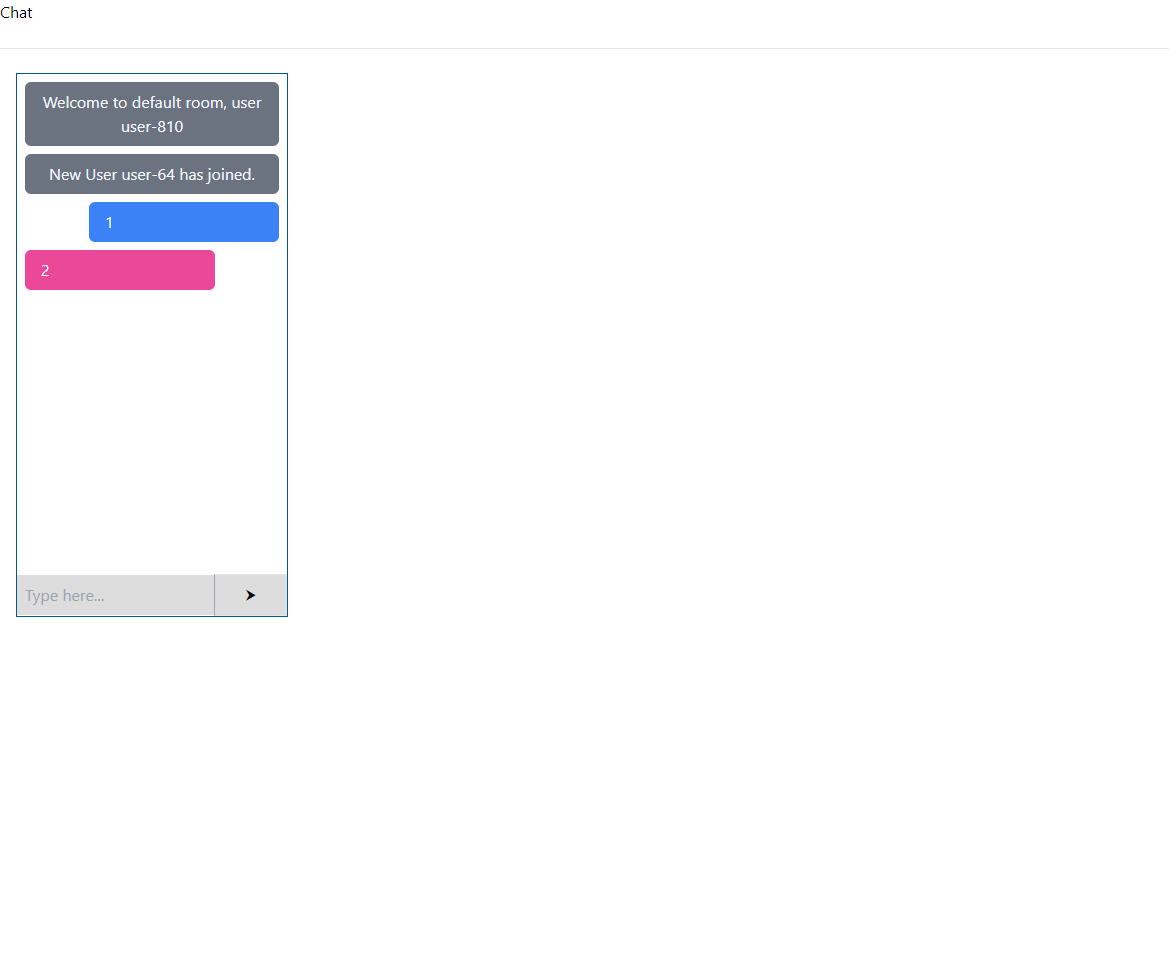
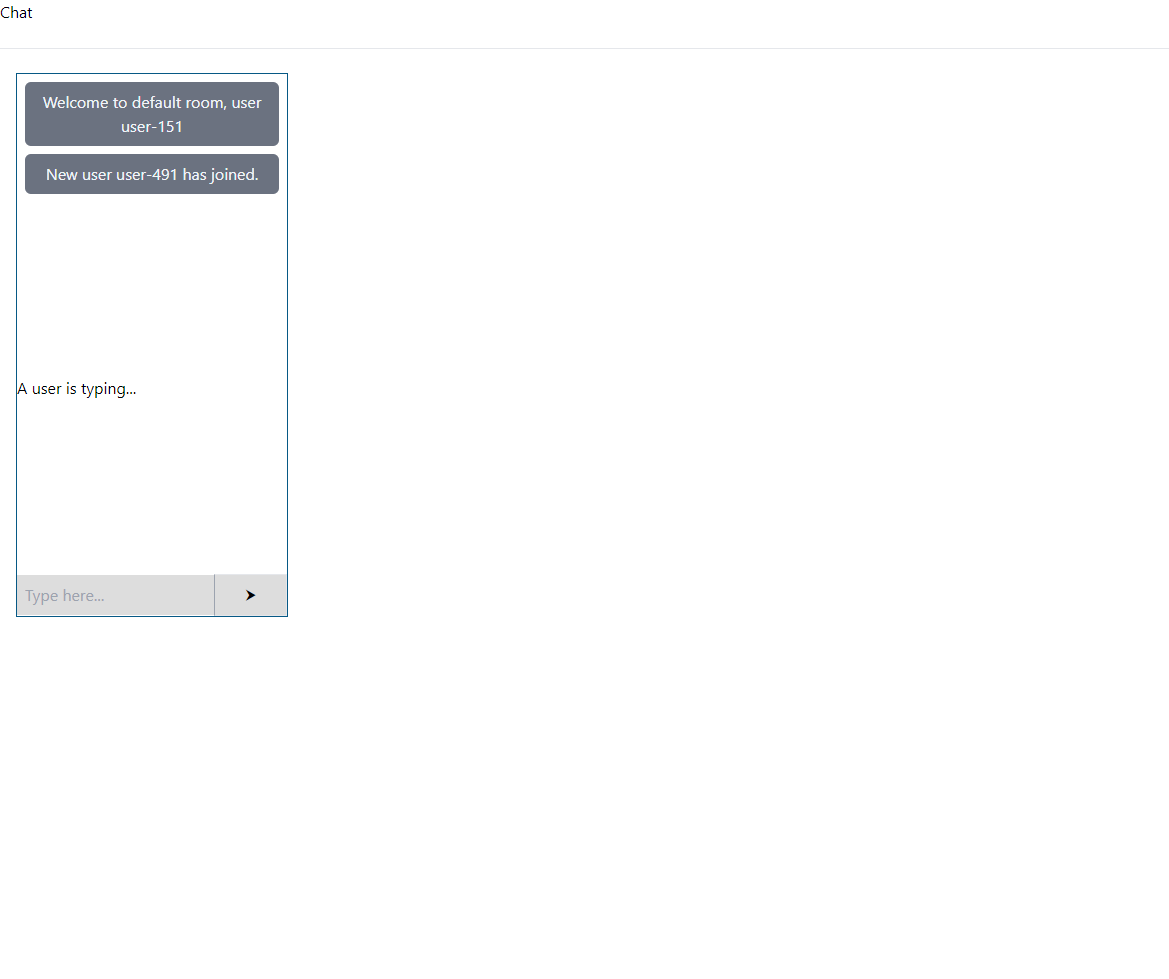
feat: created and connected 'user typing' event

Changed region(s): [[0.0, 0.1226, 0.2464, 0.3064]]

diff --git a/client/src/pages/Chat/Chat.tsx b/client/src/pages/Chat/Chat.tsx
@@ -3,7 +3,7 @@ import { FC, useEffect, useRef, useState } from 'react';
 import InputBtn from '../../components/InputBtn/InputBtn';
 import Messages from '../../components/Messages/Messages';
 import { uuid } from '../../helpers/misc';
-import { ESocketEventsDict, IClientMessageData, TFrom } from '../../types/global';
+import { TStateCount, TFrom, ESocketEventsDict, IClientMessageData } from '../../types/global';
 import './Chat.scss';
 
 interface IChatProps {
@@ -29,19 +29,32 @@ const Chat: FC<IChatProps> = (props) => {
     }
   ];
 
+  const [ isConnected, setIsConnected ] = useState(false);
   const [ messageList, setMessageList ] = useState<IClientMessageData[]>([]);
   const [ onNewMessage, setOnNewMessage ] = useState(0);
+  const [ onTyping, setOnTyping ] = useState<TStateCount>(0);
+  const [ isTyping, setIsTyping ] = useState(true);
+  const [ isTypingText, setIsTypingText ] = useState(false);
+  const [ lastTypingTime, setLastTypingTime ] = useState(new Date().getTime());
+  const typingTime = 400; // COMMT: in ms
   const name = `user-${uuid(3)}`;
   const room = 'default';
   const users = [];
+  const [tempCount, setTempCount] = useState(0);
 
-  // COMMT: Join Room
+
+  // COMMT: Socket event - Join Room
   useEffect(() => {
     props.socket.emit(
       ESocketEventsDict['joinRoom'],
       {name, room},
-      (err: string|null) => {
-        if (err) console.error('Error: ',err)
+      (type: 'name'|'error', callbackMessage: string) => {
+        if (type === 'name' && callbackMessage === name) {
+          // console.log('### CONN ###', name)
+          // setIsTyping(true);
+          setIsConnected(true);
+        };
+        if (type === 'error') console.error('Error: ', callbackMessage);
       }
     );
 
@@ -53,6 +66,69 @@ const Chat: FC<IChatProps> = (props) => {
     };
 
   }, []);
+
+  // COMMT: Toggle isTyping when this client types
+  // useEffect(() => {
+  //   if (onTyping >=1) {
+  //     setIsTyping(true);
+  //   };
+  // }, [onTyping]);
+
+  // COMMT: Socket Event - send - typing
+  useEffect(() => {
+    console.log('#### Changes ####', isConnected, isTyping);
+    if (!isConnected) return;
+    if (!isTyping) {
+      setIsTyping(true);
+      props.socket.emit(
+        ESocketEventsDict['clientTyping'],
+        {name, room}
+      );
+    };
+    setLastTypingTime(new Date().getTime());
+
+    setTimeout(() => {
+      const currTypingTimer = new Date().getTime();
+      const timeDiff = currTypingTimer - lastTypingTime;
+      console.log('time', timeDiff, typingTime);
+      if (isTyping && timeDiff >= typingTime) {
+        props.socket.emit(
+          ESocketEventsDict['stopTyping'],
+          {name, room}
+        );
+        if (tempCount <= 3) setIsTyping(false) ;
+        setTempCount(p=>p+1);
+        console.log('setIsTyping is set to false')
+      };
+    }, typingTime)
+
+    return () => {
+      props.socket?.off(ESocketEventsDict['clientTyping']);
+    };
+
+  }, [onTyping]);
+
+
+  /*
+
+    on typing -> socket emit event -> server -> other clients ->
+    if typing username != currUsername istyping = true
+
+  */
+
+  // COMMT: props socket event - receive - typing
+  useEffect(() => {
+    props.socket.on(
+      ESocketEventsDict['serverTyping'], (callbackMessage:string) => {
+        console.log('callbackMessage :>> ', callbackMessage);
+        if (callbackMessage !== name) setIsTypingText(true);
+      }
+    )
+
+    return () => {
+      props.socket?.off(ESocketEventsDict['serverTyping']);
+    }
+  }, [onTyping]);
 
   // COMMT: Listen to socket and send new messages from the sent client to non sent client's messageList
   // COMMT: - via handleAddMessageToList()
@@ -158,8 +234,12 @@ const Chat: FC<IChatProps> = (props) => {
       <br /><hr /><br />
       <div className='messages-input-container'>
         <Messages messageList={messageList} onNewMessage={onNewMessage} />
+        <div>
+          {isTypingText ? <p>A user is typing...</p> : ''}
+        </div>
         <InputBtn
           onNewMessage={(messageText)=>handleAddMessageToList('self', messageText)}
+          setOnTyping={setOnTyping}
         />
       </div>
     </div>

diff --git a/server/index.ts b/server/index.ts
@@ -42,22 +42,23 @@ io.on(ESocketEventsDict['connect'], (socket) => {
   // COMMT: Emit this whenever a user joins
   socket.on(
     ESocketEventsDict['joinRoom'],
-    ({ name, room }: IUser, callback: (arg:string|null)=>void) => {
+    ({ name, room }: IUser, callback: (argo:string, arg1:string)=>void) => {
 
       try {
         const { error, user } = addUser({ id: socket?.id, name, room });
 
-        if (error) return callback(error);
+        if (error) return callback('error', error);
 
         // COMMT: Important code
         socket.join(user?.room);
 
-        socket.emit(ESocketEventsDict['serverMessage'], {
-          id: uuid(6), // TODO: uuid num+string
-          from: 'admin',
-          username: 'admin',
-          messageText: `Welcome to ${user?.room} room, user ${user?.name}`
-        });
+        socket
+          .emit(ESocketEventsDict['serverMessage'], {
+            id: uuid(6), // TODO: uuid num+string
+            from: 'admin',
+            username: 'admin',
+            messageText: `Welcome to ${user?.room} room, user ${user?.name}`
+          });
 
         socket
           .to(user?.room)
@@ -68,13 +69,28 @@ io.on(ESocketEventsDict['connect'], (socket) => {
             messageText: `New user ${name} has joined.`
           });
 
-        callback(null);
+        callback('name', name);
 
       } catch (err) {
         console.error(`Error: `, err);
-        callback(JSON?.stringify(err));
+        callback('error', JSON?.stringify(err));
 
       }
+    }
+  );
+
+  // COMMT: When user types
+  socket.on(
+    ESocketEventsDict['clientTyping'],
+    ({ name, room }: IUser) => {
+
+      socket
+        .to(room)
+        .emit(
+          ESocketEventsDict['serverTyping'],
+          name
+        )
+
     }
   );
 

diff --git a/client/src/components/InputBtn/InputBtn.tsx b/client/src/components/InputBtn/InputBtn.tsx
@@ -1,8 +1,9 @@
-import { FC, useEffect, useState } from 'react';
+import React, { FC, useEffect, useState } from 'react';
 import styles from './InputBtn.module.scss';
 
 interface IInputBtnProps {
   onNewMessage: (e:string) => void;
+  setOnTyping: (arg:number) => void;
 }
 
 const InputBtn: FC<IInputBtnProps> = (props) => {
@@ -14,12 +15,19 @@ const InputBtn: FC<IInputBtnProps> = (props) => {
     return setNewMessageText('');
   };
 
+  function handleChange(e: React.ChangeEvent<HTMLInputElement>) {
+    setNewMessageText(e.target?.value);
+    // @ts-expect-error: Argument '(prev: number) => number' vs parameter 'number'
+    props.setOnTyping((prev: number) => prev+1);
+    return;
+  };
+
   return (
     <div className={styles['input-btn-container']}>
       <input
         type="text"
         value={newMessageText}
-        onChange={e=>setNewMessageText(e.target?.value)}
+        onChange={handleChange}
         placeholder="Type here..."
       />
       <button

diff --git a/client/src/types/global.ts b/client/src/types/global.ts
@@ -1,3 +1,7 @@
+
+// ### React ###
+export type TStateCount = ( (arg0:number)=>number ) | number;
+
 // ### Socket  ###
 export type TFrom = 'self' | 'others' | 'admin';
 
@@ -7,7 +11,8 @@ export enum ESocketEventsDict {
   "joinRoom" = "joinRoom",
   "ping" = "ping",
   "pong" = "pong",
-  "typing" = "typing",
+  "clientTyping" = "clientTyping",
+  "serverTyping" = "serverTyping",
   "stopTyping" = "stopTyping",
   "serverMessage" = "serverMessage",
   "clientMessage" = "clientMessage",

diff --git a/server/assets/types/global.ts b/server/assets/types/global.ts
@@ -7,7 +7,8 @@ export enum ESocketEventsDict {
   "joinRoom" = "joinRoom",
   "ping" = "ping",
   "pong" = "pong",
-  "typing" = "typing",
+  "clientTyping" = "clientTyping",
+  "serverTyping" = "serverTyping",
   "stopTyping" = "stopTyping",
   "serverMessage" = "serverMessage",
   "clientMessage" = "clientMessage",
@@ -16,7 +17,7 @@ export enum ESocketEventsDict {
 }
 
 export interface IUser {
-  id: string;
+  id?: string;
   name: string;
   room: string;
 }
